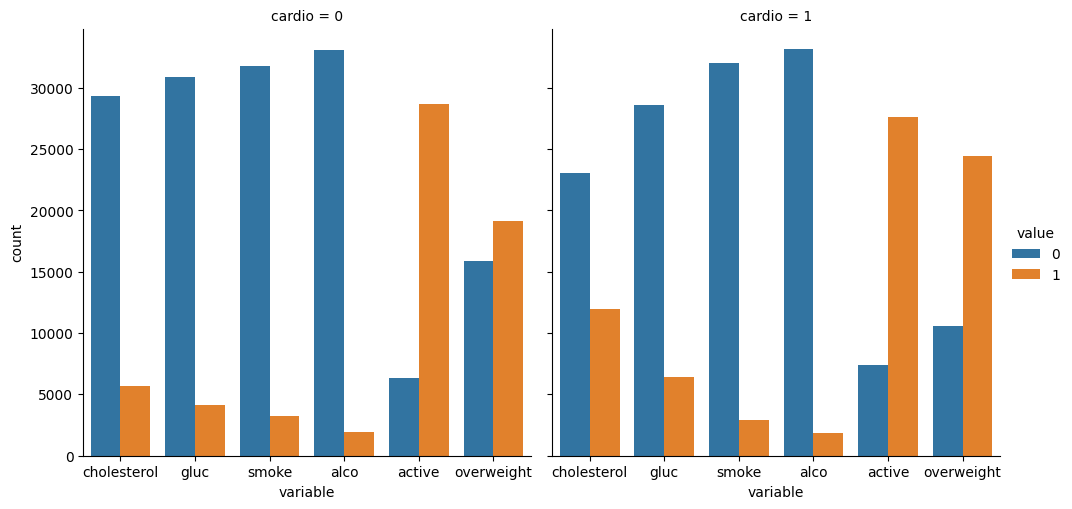
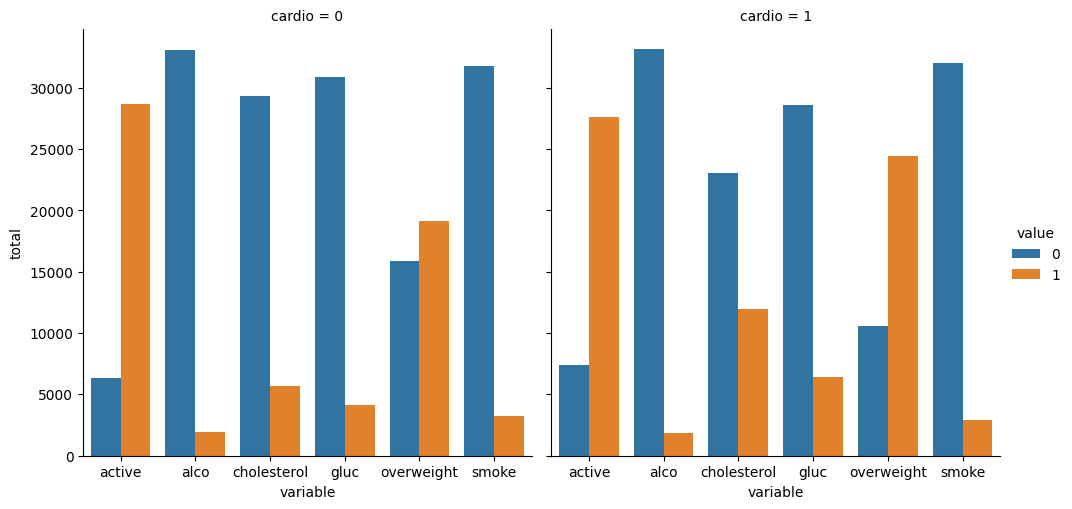
passed all tests, fixed wrong values, finished project

diff --git a/medical_data_visualizer.py b/medical_data_visualizer.py
@@ -11,69 +11,47 @@ df = pd.read_csv(
 
 print(df.iloc[0])
 
-weight_series = df["weight"]
-height_series = df["height"]
-hm = height_series * 0.01
-
-bmi = weight_series / (hm * hm)
-
-# Add 'overweight' column
-df['overweight'] = bmi > 25
+df["overweight"] = ((df["weight"] / ((df["height"] * 0.01) ** 2)) > 25).astype(int)
 
 # Normalize data by making 0 always good and 1 always bad. If the value of 'cholesterol' or 'gluc' is 1, make the value 0. If the value is more than 1, make the value 1.
 
-cholesterol_series = df["cholesterol"]
-gluc_series = df["gluc"]
-
-cholesterol_series = cholesterol_series
-
-df.loc[df["cholesterol"] == 1, "cholesterol"] = 0
-df.loc[df["cholesterol"] > 1, "cholesterol"] = 1
-
-df.loc[df["gluc"] == 1, "gluc"] = 0
-df.loc[df["gluc"] > 1, "gluc"] = 1
+df["gluc"] = (df["gluc"] > 1).astype(int)
+df["cholesterol"] = (df["cholesterol"] > 1).astype(int)
 
 # Draw Categorical Plot
 def draw_cat_plot():
     # Create DataFrame for cat plot using `pd.melt` using just the values from 'cholesterol', 'gluc', 'smoke', 'alco', 'active', and 'overweight'.
-    df_cat = pd.melt(df, id_vars= ["cardio"], value_vars= ['cholesterol', 'gluc', 'smoke', 'alco', 'active','overweight'])
+    df_cat = pd.melt(df, id_vars= "cardio", value_vars= ["active", "alco", "cholesterol", "gluc", "overweight", "smoke"])
 
     # Group and reformat the data to split it by 'cardio'. Show the counts of each feature. You will have to rename one of the columns for the catplot to work correctly.
     #df_cat = None
 
     # Draw the catplot with 'sns.catplot()'
-    fig = sns.catplot(kind="count", x="variable", hue="value", col="cardio", data=df_cat) 
-        
+    fig = sns.catplot(kind="count", x="variable", hue="value", col="cardio", data=df_cat).set_axis_labels("variable", "total")
+    
     # Do not modify the next two lines
     fig.savefig('catplot.png')
+    fig = fig.fig
+
     return fig
 
 
 # Draw Heat Map
 def draw_heat_map():
     # Clean the data
-    blood_mask = df['ap_lo'] <= df['ap_hi']
-    df.loc[blood_mask]
-    h1 = df['height'] >= df['height'].quantile(0.025) 
-    df.loc[h1]
-    h2 = df['height'] <= df['height'].quantile(0.975)
-    df.loc[h2]
-    w1 = df['weight'] >= df['weight'].quantile(0.025)
-    df.loc[w1]
-    w2 = df['weight'] <= df['weight'].quantile(0.975)
-    df.loc[w2]
+    df_heat = df.loc[(df["ap_lo"] <= df["ap_hi"]) & (df["height"] >= df["height"].quantile(0.025)) & (df["height"] <= df["height"].quantile(0.975)) & (df["weight"] >= df["weight"].quantile(0.025)) & (df["weight"] <= df["weight"].quantile(0.975))]
 
     # Calculate the correlation matrix
-    corr = df.corr()
+    corr = df_heat.corr()
 
     # Generate a mask for the upper triangle
-    t_mask = np.triu(corr)
+    mask = np.triu(np.ones(corr.shape))
 
     # Set up the matplotlib figure
-    fig, ax = plt.subplots(figsize=(9,9))
+    fig, ax = plt.subplots(figsize=(13, 10))
 
     # Draw the heatmap with 'sns.heatmap()'
-    sns.heatmap(corr, linewidths=1, mask=t_mask, vmax=0.3, center=0.09,square=True, cbar_kws = {'orientation' : 'horizontal'})
+    sns.heatmap(corr, mask=mask, annot=True, linewidths=.5, vmin = -.16, vmax = .32, fmt=".1f", center=0)
 
     # Do not modify the next two lines
     fig.savefig('heatmap.png')

diff --git a/main.py b/main.py
@@ -3,10 +3,8 @@ import medical_data_visualizer
 from unittest import main
 
 # Test your function by calling it here
-#disabled for speed
-#medical_data_visualizer.draw_cat_plot()
+medical_data_visualizer.draw_cat_plot()
 medical_data_visualizer.draw_heat_map()
 
 # Run unit tests automatically
-# disable unit tests during work
-#main(module='test_module', exit=False)
+main(module='test_module', exit=False)
